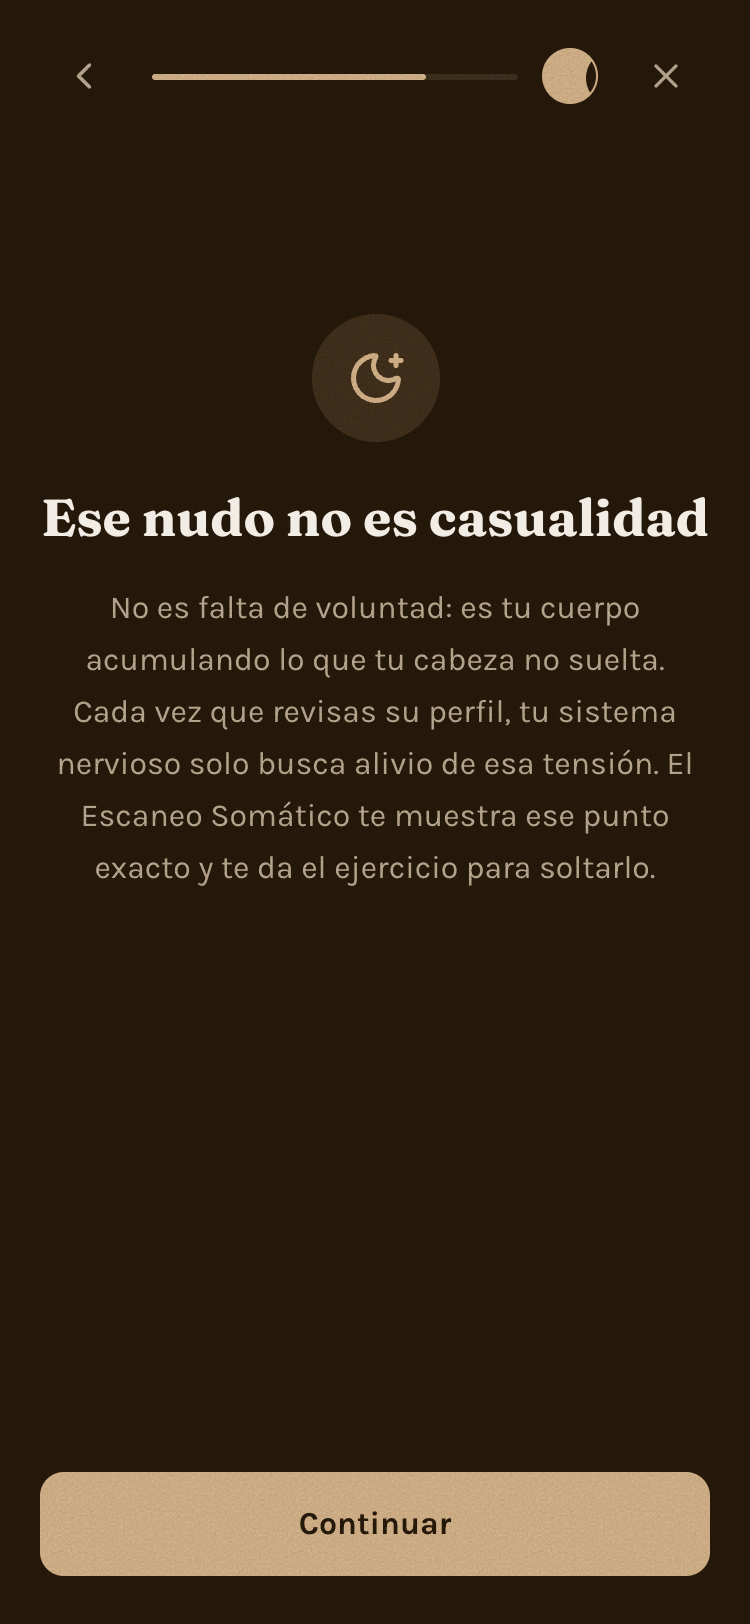
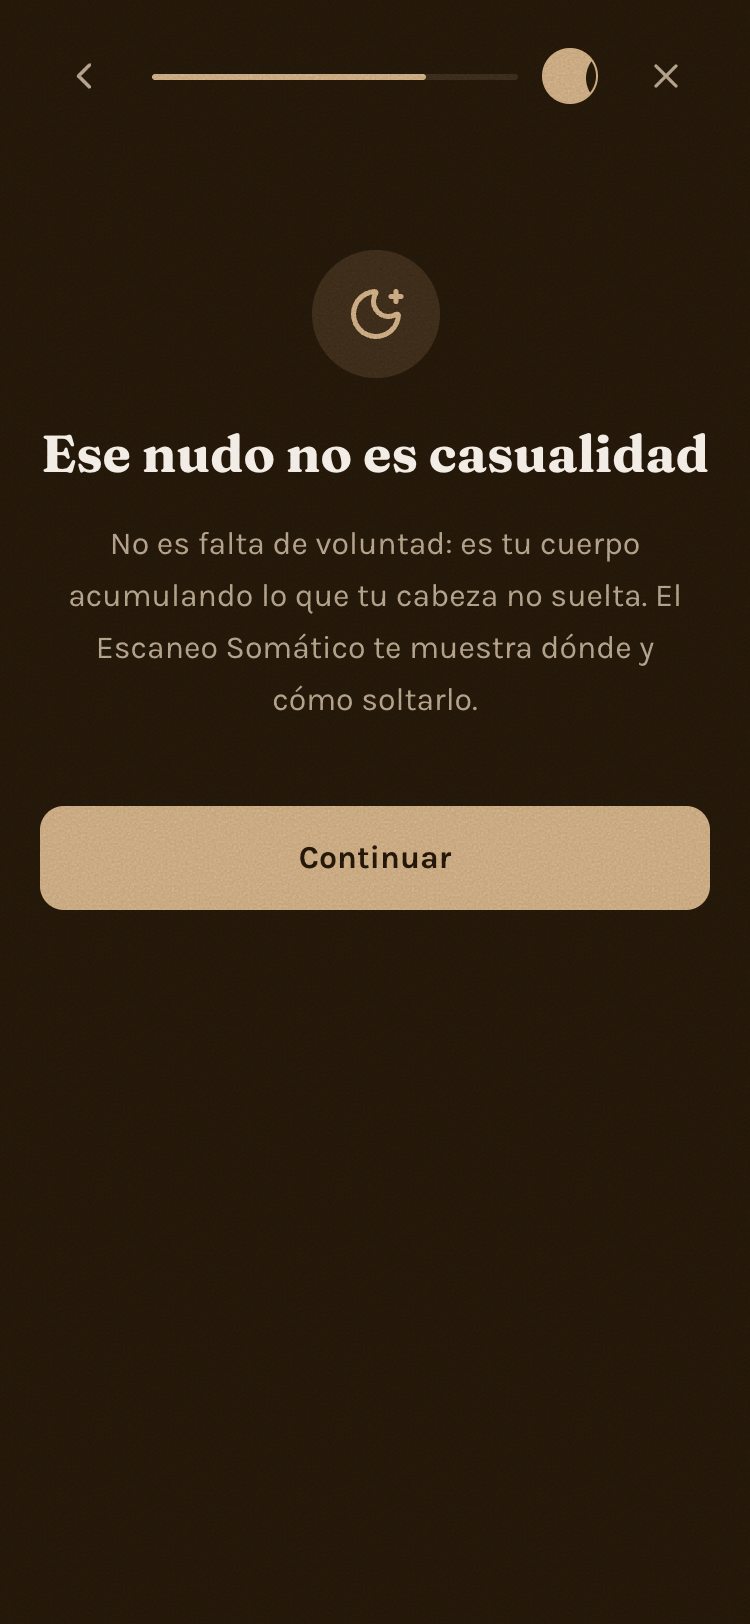
Corrige 5 hallazgos de la 5ª revisión del onboarding
- CTA de "Otra cosa" nunca disabled: valida al enviar y muestra hint
  inline en vez de deshabilitar el botón al 50% de opacidad
- Input "Otra cosa" envuelto en <form> con submit (Enter ya funciona)
- Estado de error simulado en PantallaLoading con botón de reintentar
  (antes: cero manejo de error en todo el flujo)
- CTA acercado al contenido en reconocimientos y resultado (antes había
  ~30-40% de espacio vacío entre el texto y el botón)
- Copy de los reconocimientos recortado a 2 líneas (antes 5)

Changed region(s): [[0.0307, 0.1539, 0.9507, 0.585], [0.0307, 0.8929, 0.9507, 0.9852]]

diff --git a/app/onboarding/page.tsx b/app/onboarding/page.tsx
@@ -151,6 +151,7 @@ function PantallaPregunta({
   const [seleccion, setSeleccion] = useState<string | null>(null);
   const [otraAbierta, setOtraAbierta] = useState(false);
   const [textoOtra, setTextoOtra] = useState('');
+  const [hintOtra, setHintOtra] = useState(false);
 
   function elegir(valor: string) {
     setSeleccion(valor);
@@ -165,7 +166,7 @@ function PantallaPregunta({
         animate={{ opacity: 1, x: 0 }}
         exit={reduce ? { opacity: 1, x: 0 } : { opacity: 0, x: -24 }}
         transition={{ duration: reduce ? 0.2 : 0.3, ease: [0.16, 1, 0.3, 1] }}
-        className="flex flex-1 flex-col justify-start pt-[15vh]"
+        className="flex flex-1 flex-col justify-start pt-[8vh]"
       >
         <h1 className="text-balance text-[30px] font-bold leading-[1.1] tracking-[-0.02em] text-[var(--text-primary)] [font-family:var(--font-display)]">
           {pregunta}
@@ -215,23 +216,37 @@ function PantallaPregunta({
             )}
           </div>
         ) : (
-          <div className="mt-8">
+          <form
+            className="mt-8"
+            onSubmit={(e) => {
+              e.preventDefault();
+              if (textoOtra.trim()) {
+                onElegir(textoOtra.trim());
+              } else {
+                setHintOtra(true);
+              }
+            }}
+          >
             <input
               autoFocus
               value={textoOtra}
-              onChange={(e) => setTextoOtra(e.target.value)}
+              onChange={(e) => {
+                setTextoOtra(e.target.value);
+                if (hintOtra) setHintOtra(false);
+              }}
               placeholder="Escribe con tus palabras..."
               className="h-14 w-full rounded-[var(--radius-card)] border border-[color-mix(in_oklab,var(--text-tertiary)_30%,transparent)] bg-[var(--surface)] px-4 text-[16px] text-[var(--text-primary)] outline-none focus-visible:border-[var(--accent)]"
             />
+            {hintOtra && (
+              <p className="mt-2 text-[13px] text-[var(--accent)]">Escribe algo para continuar</p>
+            )}
             <button
-              type="button"
-              disabled={!textoOtra.trim()}
-              onClick={() => onElegir(textoOtra.trim())}
-              className="mt-4 flex h-[52px] w-full items-center justify-center rounded-[var(--radius-button)] bg-[var(--accent)] text-[16px] font-semibold text-[var(--bg)] disabled:opacity-50 [touch-action:manipulation]"
+              type="submit"
+              className="mt-4 flex h-[52px] w-full items-center justify-center rounded-[var(--radius-button)] bg-[var(--accent)] text-[16px] font-semibold text-[var(--bg)] [touch-action:manipulation]"
             >
               Continuar
             </button>
-          </div>
+          </form>
         )}
       </motion.div>
     </div>
@@ -259,7 +274,7 @@ function PantallaReconocimiento({
       <motion.div
         initial={{ opacity: reduce ? 1 : 0 }}
         animate={{ opacity: 1 }}
-        className="flex flex-1 flex-col items-center justify-start pt-[12vh] text-center"
+        className="mt-[8vh] flex flex-col items-center text-center"
       >
         <motion.span
           initial={reduce ? { scale: 1, opacity: 1 } : { scale: 0.7, opacity: 0 }}
@@ -293,10 +308,11 @@ function PantallaReconocimiento({
         type="button"
         whileTap={{ scale: 0.97 }}
         onClick={onContinuar}
-        className="mb-[max(24px,env(safe-area-inset-bottom))] flex h-[52px] w-full items-center justify-center rounded-[var(--radius-button)] bg-[var(--accent)] text-[16px] font-semibold text-[var(--bg)] [touch-action:manipulation]"
+        className="mt-10 flex h-[52px] w-full items-center justify-center rounded-[var(--radius-button)] bg-[var(--accent)] text-[16px] font-semibold text-[var(--bg)] [touch-action:manipulation]"
       >
         Continuar
       </motion.button>
+      <div className="flex-1" />
     </div>
   );
 }
@@ -305,8 +321,10 @@ function PantallaLoading({ onListo }: { onListo: () => void }) {
   const reduce = useReducedMotion();
   const pasos = ['Leyendo tu carta natal...', 'Ubicando tu zona de tensión...', 'Armando tu ejercicio de 3 minutos...'];
   const [activo, setActivo] = useState(0);
+  const [error, setError] = useState(false);
 
   useEffect(() => {
+    if (error) return;
     const t1 = setTimeout(() => setActivo(1), reduce ? 200 : 900);
     const t2 = setTimeout(() => setActivo(2), reduce ? 400 : 1800);
     const t3 = setTimeout(onListo, reduce ? 600 : 2700);
@@ -316,7 +334,30 @@ function PantallaLoading({ onListo }: { onListo: () => void }) {
       clearTimeout(t3);
     };
     // eslint-disable-next-line react-hooks/exhaustive-deps
-  }, []);
+  }, [error]);
+
+  if (error) {
+    return (
+      <div className="flex min-h-dvh flex-col items-center justify-center px-5 text-center">
+        <h1 className="text-[20px] font-bold text-[var(--text-primary)] [font-family:var(--font-display)]">
+          No pudimos armar tu escaneo
+        </h1>
+        <p className="mt-2 max-w-[280px] text-[14px] text-[var(--text-secondary)]">
+          Revisa tu conexión e intenta de nuevo. Tus respuestas siguen guardadas.
+        </p>
+        <button
+          type="button"
+          onClick={() => {
+            setActivo(0);
+            setError(false);
+          }}
+          className="mt-6 flex h-[52px] items-center justify-center rounded-[var(--radius-button)] bg-[var(--accent)] px-8 text-[16px] font-semibold text-[var(--bg)] [touch-action:manipulation]"
+        >
+          Reintentar
+        </button>
+      </div>
+    );
+  }
 
   return (
     <div className="flex min-h-dvh flex-col items-center justify-center px-5 text-center">
@@ -370,7 +411,7 @@ function PantallaResultado({ respuestas }: { respuestas: Respuestas }) {
       <motion.div
         initial={reduce ? { opacity: 1, y: 0 } : { opacity: 0, y: 12 }}
         animate={{ opacity: 1, y: 0 }}
-        className="flex flex-1 flex-col items-center text-center"
+        className="flex flex-col items-center text-center"
       >
         <p className="text-[12px] font-semibold uppercase tracking-[0.08em] text-[var(--accent)]">
           Tu escaneo de hoy
@@ -417,10 +458,11 @@ function PantallaResultado({ respuestas }: { respuestas: Respuestas }) {
         transition={{ delay: reduce ? 0 : 0.2 }}
         whileTap={{ scale: 0.97 }}
         href="/paywall"
-        className="mb-[max(24px,env(safe-area-inset-bottom))] flex h-[52px] w-full items-center justify-center rounded-[var(--radius-button)] bg-[var(--accent)] text-[16px] font-semibold text-[var(--bg)] [touch-action:manipulation]"
+        className="mt-10 flex h-[52px] w-full items-center justify-center rounded-[var(--radius-button)] bg-[var(--accent)] text-[16px] font-semibold text-[var(--bg)] [touch-action:manipulation]"
       >
         Ver mi plan de liberación
       </motion.a>
+      <div className="flex-1" />
     </div>
   );
 }
@@ -510,11 +552,11 @@ export default function Onboarding() {
             key="reco1"
             paso={3}
             titulo="Ese nudo no es casualidad"
-            cuerpo={`No es falta de voluntad: es tu cuerpo acumulando lo que tu cabeza no suelta. ${
+            cuerpo={
               respuestas.situacion?.includes('ruptura')
-                ? 'Cada vez que revisas su perfil, tu sistema nervioso solo busca alivio de esa tensión.'
-                : 'Esa tensión tiene un patrón, y hoy vamos a mostrarte dónde vive exactamente.'
-            } El Escaneo Somático te muestra ese punto exacto y te da el ejercicio para soltarlo.`}
+                ? 'No es falta de voluntad: es tu cuerpo acumulando lo que tu cabeza no suelta. El Escaneo Somático te muestra dónde y cómo soltarlo.'
+                : 'Esa tensión tiene un patrón. El Escaneo Somático te muestra dónde vive y cómo soltarla.'
+            }
             onContinuar={avanzar}
             onAtras={retroceder}
           />
@@ -543,7 +585,7 @@ export default function Onboarding() {
             key="reco2"
             paso={4}
             titulo="Ya diste el paso que la mayoría evita"
-            cuerpo="Nombrar dónde te duele y qué quieres lograr es exactamente lo que la mayoría de las apps de astrología nunca te preguntan. Tu Escaneo Somático se construye ahora mismo con eso."
+            cuerpo="Nombrar dónde te duele y qué quieres lograr es justo lo que otras apps nunca preguntan. Tu Escaneo Somático ya se está armando."
             onContinuar={avanzar}
             onAtras={retroceder}
           />

diff --git a/docs/revisiones/onboarding-veredicto.md b/docs/revisiones/onboarding-veredicto.md
@@ -1,14 +1,14 @@
 # VEREDICTO revisor-visual — onboarding
 Fecha: 2026-09-04 00:00
 Screenshot: docs/revisiones/onboarding-1-situacion.png (+ 7 pantallas adicionales onboarding-2..8)
-Usabilidad: 30/40  (detalle: h1:3 h2:3 h3:2 h4:3 h5:3 h6:4 h7:3 h8:3 h9:3 h10:3)
-Craft: 15/20  (detalle: jerarquía:3 profundidad:3 identidad:3 movimiento:3 encaje:3)
+Usabilidad: 30/40  (detalle: h1:3 h2:4 h3:3 h4:4 h5:2 h6:4 h7:2 h8:3 h9:2 h10:3)
+Craft: 16/20  (detalle: jerarquía:3 profundidad:3 identidad:3 movimiento:4 encaje:3)
 Copy (si vende): N-A
 Fidelidad (si hubo referencia): N-A
 Veredicto: NO LISTA
 Top defectos:
-1. [Header, botón X "Salir del escaneo", todas las pantallas de pregunta/reconocimiento] `onClick` usa `window.confirm('¿Salir ahora?...')` — un diálogo nativo del navegador con su propia tipografía/chrome del sistema, rompe por completo la inmersión de marca justo en el momento de mayor fricción emocional (salir a mitad del duelo/ansiedad) → reemplazar por un modal propio animado (mismo radio 20px, acento, tipografía display/body) con botones "Seguir aquí" / "Salir sin guardar".
-2. [Pantallas 1, 2, 3, 5 — situación/zona/momento/meta, franja inferior] El bloque pregunta+opciones queda centrado simétricamente pero ocupa solo ~40% del alto, dejando ~55-60% de la pantalla en negro plano arriba y abajo sin ningún elemento (ni ilustración, ni texto residual) — un usuario percibe la pantalla como "vacía/a medio cargar" sin necesidad de buscarlo → anclar el bloque más arriba (justify-start + padding-top fijo ~15-20% viewport) en vez de centrarlo en toda la altura disponible entre header y borde inferior.
-3. [PantallaResultado, número "72%" dentro del anillo] El anillo SVG se dibuja con animación pero el texto "72%" aparece estático desde el frame 0, sin contar hacia arriba — rompe uno de los 7 baseline de movimiento (conteo de números héroe) que el resto del proyecto sí cumple en otras pantallas → animar el número con un motion value sincronizado a la duración del trazo del anillo (0 a 72 en 1.1s).
-4. [Todas las cards de opción y la card de meta en resultado] La textura de papel/grano descrita como dispositivo ownable en FICHA-ARTE.md (línea 26, "textura de papel/grano muy sutil en cards de diario") sigue sin percibirse en el screenshot — las cards se ven como fills planos de `--surface` sin grano visible, dejando la fase lunar como único dispositivo ownable real → subir la opacidad del grano hasta que sea perceptible en captura estándar, o retirar la promesa de la ficha si se decide no implementarlo.
-5. [Header, indicador luna, pantalla 1 "situación", paso=0] Con `frac=0` la luna de progreso se renderiza como un anillo hueco sin relleno visible junto al botón X — a primera vista puede leerse como un ícono roto o un placeholder vacío en vez de "0% completado" → dar al estado inicial un mínimo de relleno/borde perceptible que comunique que es un indicador funcionando, no un elemento sin cargar.
+1. [Pantalla "Otra cosa" en situación/meta, botón "Continuar" bajo el input] `disabled={!textoOtra.trim()}` con `disabled:opacity-50` — es exactamente el patrón "pill muerto al 50% esperando el form perfecto" que las anclas del CTA héroe vivo prohíben; el usuario que toca el botón vacío no recibe ningún feedback (evento bloqueado por `disabled`, sin hint de qué falta) → habilitar siempre el botón, validar al click y mostrar un hint inline ("Escribe algo para continuar") en vez de deshabilitarlo.
+2. [Todo el flujo, campo de texto "Otra cosa"] El `<input>` no está en un `<form>` ni tiene `onKeyDown` para Enter → un usuario que escribe y presiona Enter (comportamiento esperado en cualquier input de una sola línea) no avanza, tiene que ir a tocar el botón → envolver en `<form onSubmit>` o agregar handler de Enter.
+3. [Código completo, paso "loading" y cualquier llamada futura a datos reales] Cero manejo de estados de error en todo el archivo: el "loading" es un `setTimeout` fijo que siempre termina en éxito, sin rama de fallo ni mensaje de reintento → cuando se conecte a datos reales, definir un estado de error con qué pasó + qué hacer (ninguna heurística de error está implementada hoy, ni siquiera de forma simulada).
+4. [Pantallas pregunta-situación, pregunta-zona, pregunta-momento, pregunta-meta, reconocimiento-1, reconocimiento-2, resultado] El bloque de contenido ahora se ancla arriba (pt-15vh/12vh) pero sigue dejando ~25-40% de la pantalla en marrón plano vacío entre el contenido y el borde inferior (o entre el cuerpo y el botón CTA en reconocimiento/resultado) — mejoró respecto al centrado total previo, pero un usuario todavía percibe la mitad inferior de la pantalla como sub-utilizada → acercar el CTA al bloque de contenido o añadir un elemento secundario (ilustración/dato) que ocupe ese tercio inferior.
+5. [Pantallas reconocimiento-1 y reconocimiento-2, párrafo de cuerpo] El copy de cuerpo se extiende a 5 líneas (excede la guía de 3-4 líneas por bloque de la carga cognitiva), sumado a que no hay atajos de teclado en ningún punto del flujo (heurística 7) → recortar el copy a 3-4 líneas y agregar soporte de teclado (Enter/Tab) donde aplique.
